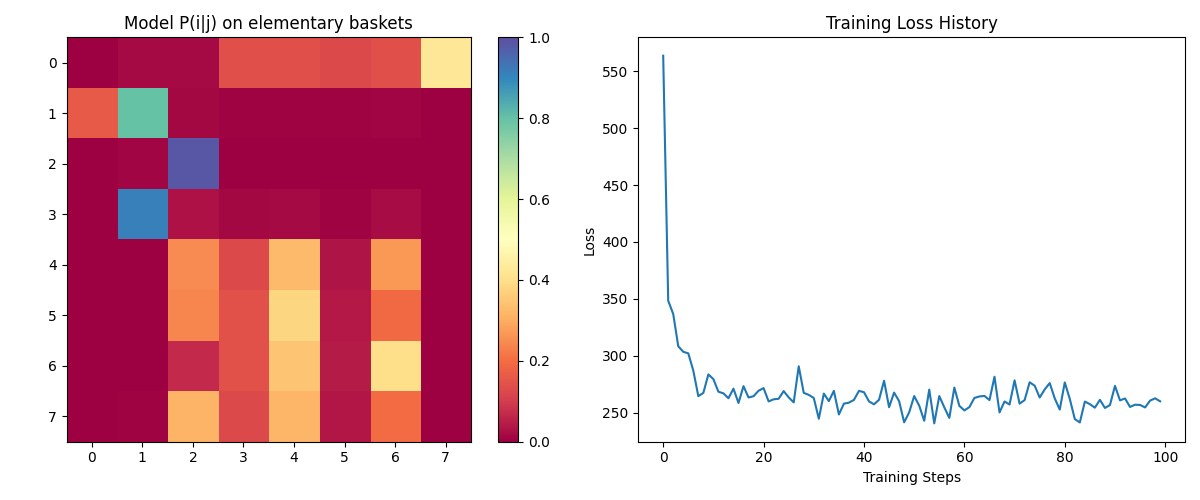
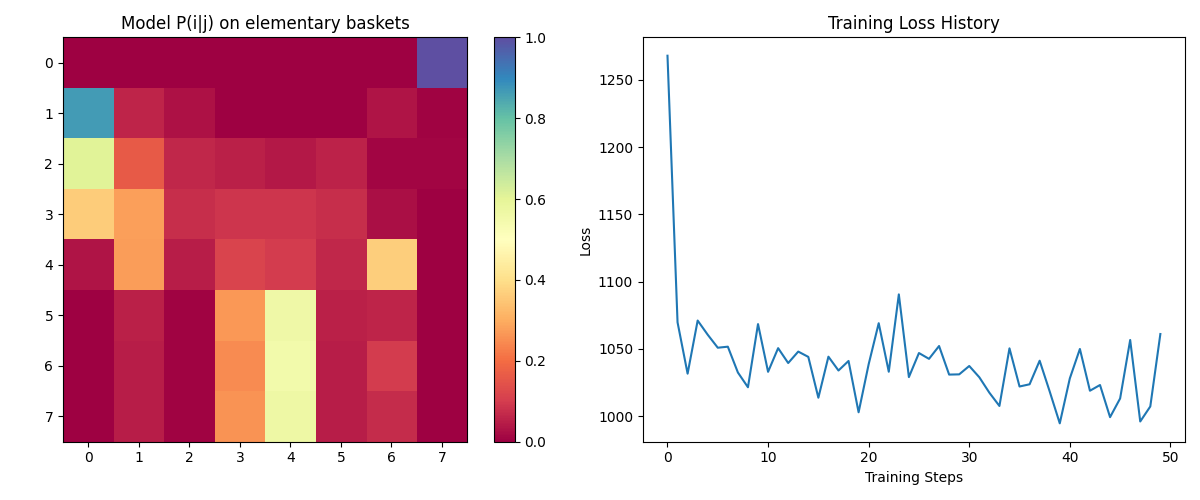
new

diff --git a/python/main.py b/python/main.py
@@ -1,13 +1,37 @@
 from data import SyntheticDataGenerator
 from model import BaseModel
+import tensorflow as tf
+
+import matplotlib.pyplot as plt
 
 
 
 data_gen = SyntheticDataGenerator()
-n_baskets = 100
+n_baskets = 1000
 baskets = data_gen.generate_synthetic_dataset(n_baskets)
+
+P_ij_true = np.zeros((I, I))
+for basket in baskets:
+    for i in basket:
+        for j in basket:
+            if i != j:
+                P_ij_true[i, j] += 1
+
+P_ij_true_norm = P_ij_true / (np.sum(P_ij_true, axis=0, keepdims=True) + 1e-10)
+
+print("Empirical P(i|j) from data:\n", np.round(P_ij_true_norm, 3))
+plt.imshow(P_ij_true_norm, cmap='Blues')
+plt.xlabel('Given j')
+plt.ylabel('Empirical i')
+plt.title('Empirical P(i|j) from baskets')
+plt.colorbar()
+plt.show()
+
 print(baskets)
+
+
 new_baskets = data_gen.generate_synthetic_dataset(n_baskets, padded=False)
 print(new_baskets)
 model = BaseModel()
-model.fit(baskets, repr = True)
+model.fit(baskets, repr = True, loss_type = "bad")
+

diff --git a/python/model.py b/python/model.py
@@ -14,7 +14,7 @@ class BaseModel:
         embedding_dim: int = 4,
         k_noise: int = 8,
         lr: float = 0.05,
-        epochs: int = 100,
+        epochs: int = 50,
         optimizer: str = "Adam",
         batch_size: str = 16,
         loss_type: str = "nce", # maybe you can find a clearer word than "bad"
@@ -100,7 +100,7 @@ class BaseModel:
             lambda args: tf.reduce_sum(tf.transpose(args[0])*args[1] , axis=1),
             (context_emb, attn_weights), fn_output_signature=tf.float32
         )
-        return context_vec
+        return context_vec # [batch_size, self.embedding_dim]
 
     def score(self, context_vec: tf.Tensor, target_items_idx: tf.Tensor) -> tf.Tensor:
         """Returns the score of the item given the context vector."""
